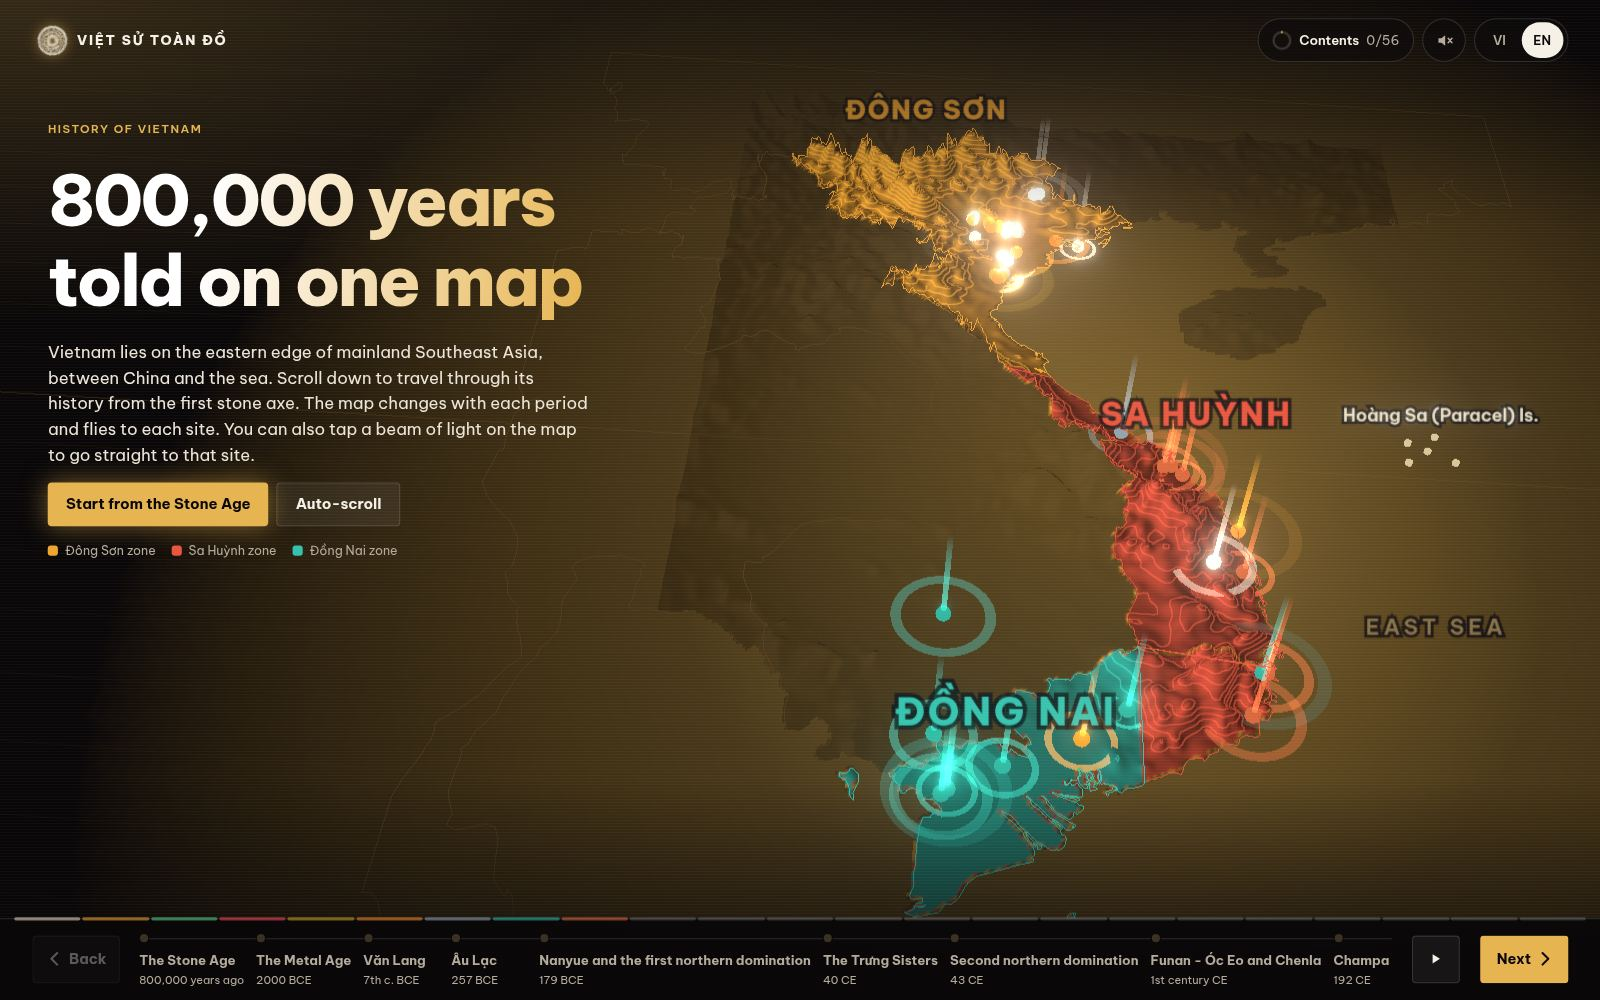
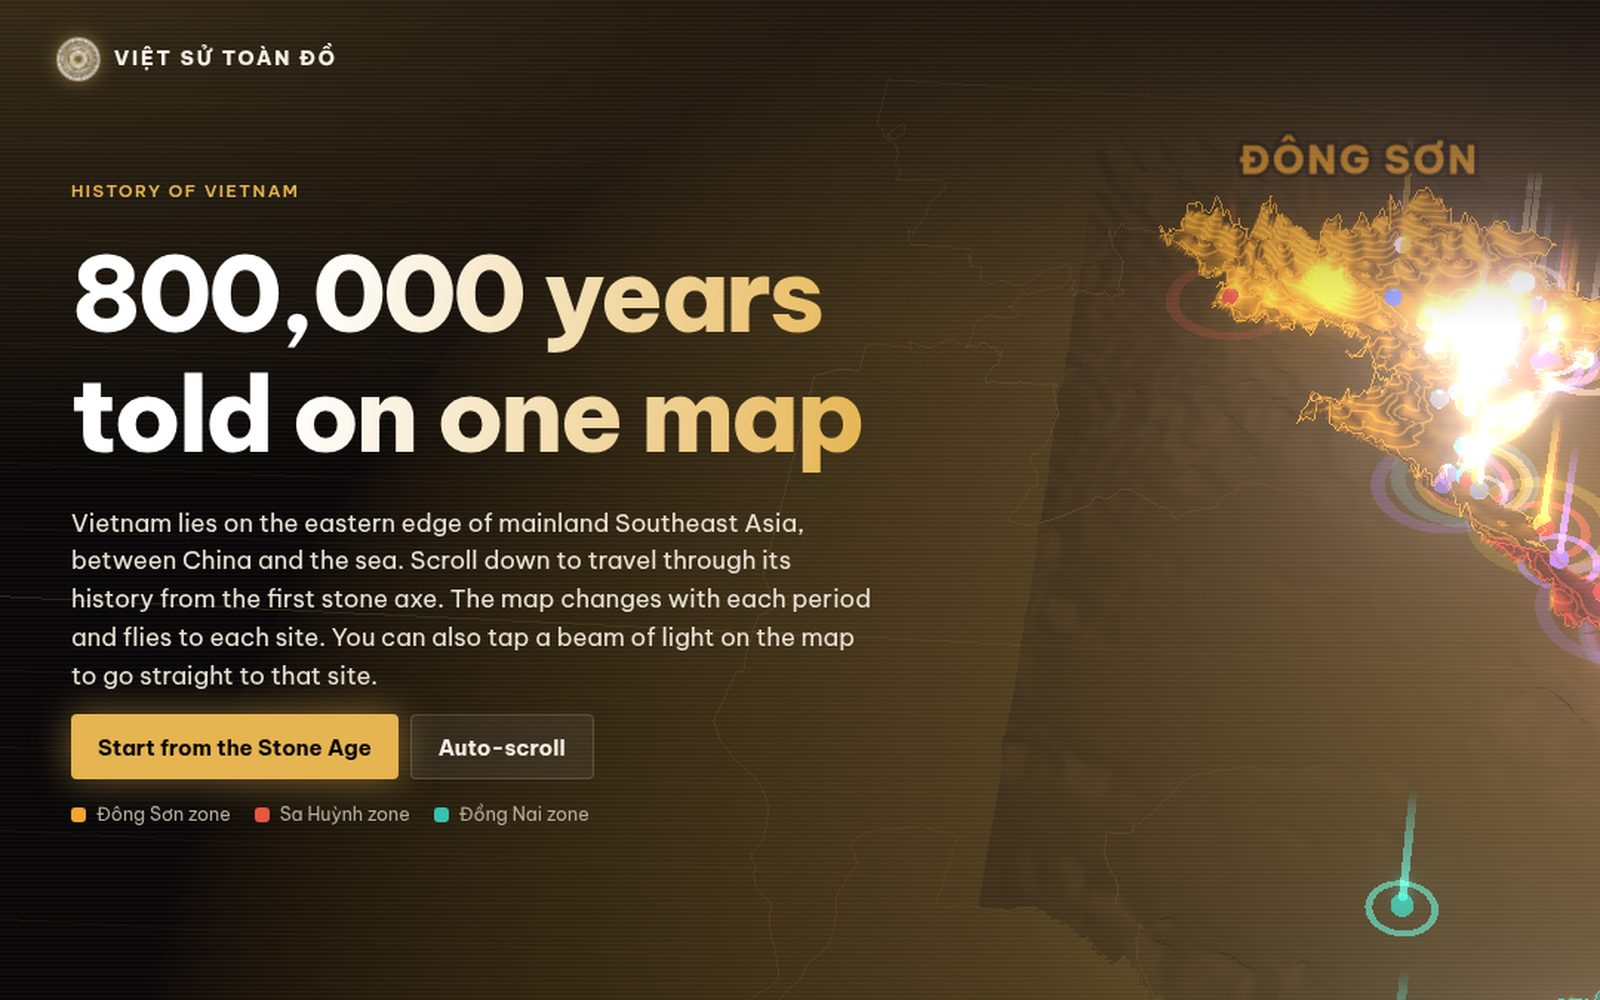
Point the Việt Sử card at vietsutoando.com. (#41)
The card lists 23 periods, special topics, and on-this-day reading, and the image is a fresh English homepage shot.

diff --git a/portfolio/index.html b/portfolio/index.html
@@ -965,14 +965,14 @@ details.more>summary:focus-visible{outline:2px solid #a78bfa;outline-offset:2px}
     <div class="rv">
       <div class="eyebrow">History</div>
       <h2>Vietnam's history, <span class="serif">on one map.</span></h2>
-      <p class="sub">Việt Sử Toàn Đồ is live. All 24 periods are open.</p>
+      <p class="sub">Việt Sử Toàn Đồ is live, now at vietsutoando.com.</p>
     </div>
     <div class="grid">
 
       <article class="card" style="--c1:rgba(232,168,74,.62);--c2:rgba(20,160,150,.4);--c1s:#f0b56a;--glow:rgba(232,168,74,.42)">
         <div class="shot">
           <div class="fb">🗺</div>
-          <div class="frame"><div class="bar"><i></i><i></i><i></i><em>viet-su.vercel.app</em></div><img src="img/viet-su.jpg" alt="Việt Sử Toàn Đồ in English: the opening screen, “800,000 years told on one map,” with the Đông Sơn, Sa Huỳnh and Đồng Nai zones" loading="lazy" onerror="this.parentNode.remove()"></div>
+          <div class="frame"><div class="bar"><i></i><i></i><i></i><em>vietsutoando.com</em></div><img src="img/viet-su.jpg" alt="Việt Sử Toàn Đồ in English: the opening screen, “800,000 years told on one map,” with the Đông Sơn, Sa Huỳnh and Đồng Nai zones" loading="lazy" onerror="this.parentNode.remove()"></div>
         </div>
         <div class="info">
           <div class="head">
@@ -981,14 +981,15 @@ details.more>summary:focus-visible{outline:2px solid #a78bfa;outline-offset:2px}
           </div>
           <p class="desc">An interactive map of Vietnamese history, in English and Vietnamese. Scroll and the map changes with each period and flies to each site. Tap a beam of light on the map to jump straight to a site. The opening line is "800,000 years told on one map."</p>
           <ul class="feats">
-            <li><b>Stone Age to today, now complete:</b> 24 periods are live, from the Stone Age to the present. 175 entries: sites, figures, events, artefacts, cultures and legends.</li>
-            <li><b>Every entry is sourced:</b> each one is labelled Archaeology, Chronicles or Legend. 830 sources, from primary texts, museums, research papers, reference works and news.</li>
+            <li><b>Stone Age to today:</b> 23 periods are live, from the Stone Age to the present, plus special topics on Vietnamese culture and women in Vietnamese history. 201 entries: sites, figures, events, artefacts, cultures and legends.</li>
+            <li><b>Every entry is sourced:</b> each one is labelled Archaeology, Chronicles or Legend. 975 sources, from primary texts, museums, research papers, reference works and news.</li>
             <li><b>Holograms, quizzes and the world around it:</b> 10 simplified 3D reconstructions, including the Đông Sơn bronze drum, Cổ Loa citadel, the One Pillar Pagoda and a Cham tower. Each period has a "Meanwhile, elsewhere" note, and 3 questions for a badge.</li>
             <li><b>Search, and choose how deep to read:</b> a searchable full index, plus Quick, Full and Scholarly reading.</li>
+            <li><b>On this day, and the sources themselves:</b> the index opens on today's date in history, with a lifeline of the figures. Some entries link to the original text on Wikisource or a 3D scan from the National Museum.</li>
           </ul>
-          <div class="scope mono">24 periods <i>·</i> 175 entries <i>·</i> 24 quizzes <i>·</i> 830 sources <i>·</i> English &amp; Vietnamese</div>
-          <div class="chips"><span class="chip">Scrollytelling</span><span class="chip">3D map</span><span class="chip">English · Vietnamese</span><span class="chip">Sources</span><span class="chip">Quizzes</span><span class="chip">Search</span></div>
-          <a class="visit" href="https://viet-su.vercel.app/" target="_blank" rel="noopener">Open Việt Sử Toàn Đồ <svg viewBox="0 0 24 24" fill="none" stroke="currentColor" stroke-width="2" stroke-linecap="round"><path d="M7 17 17 7M8 7h9v9"/></svg></a>
+          <div class="scope mono">23 periods <i>·</i> 201 entries <i>·</i> 26 quizzes <i>·</i> 975 sources <i>·</i> English &amp; Vietnamese</div>
+          <div class="chips"><span class="chip">Scrollytelling</span><span class="chip">3D map</span><span class="chip">English · Vietnamese</span><span class="chip">Sources</span><span class="chip">Quizzes</span><span class="chip">Search</span><span class="chip">Special topics</span><span class="chip">On this day</span></div>
+          <a class="visit" href="https://vietsutoando.com/" target="_blank" rel="noopener">Open Việt Sử Toàn Đồ <svg viewBox="0 0 24 24" fill="none" stroke="currentColor" stroke-width="2" stroke-linecap="round"><path d="M7 17 17 7M8 7h9v9"/></svg></a>
         </div>
       </article>
 
